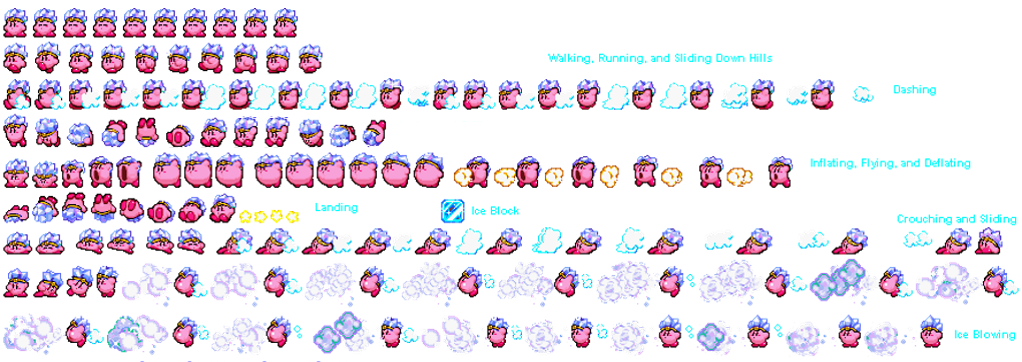
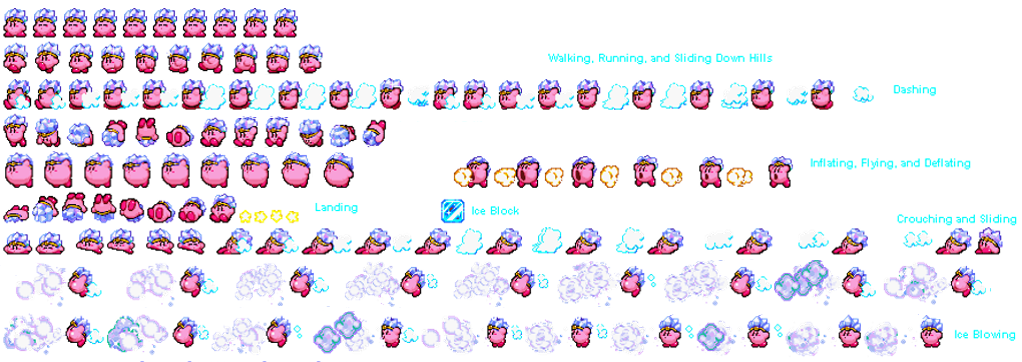
아이스 커비 공중모션 구현

Changed region(s): [[0.0, 0.6989, 1.0, 0.8812], [0.0, 0.4254, 0.455, 0.5166]]

diff --git a/kirby.py b/kirby.py
@@ -7,6 +7,7 @@ import kirby_game_framework
 import kirby_play_mode
 import kirby_world
 from boss_map import BossMap
+import ice_kirby
 
 PIXEL_PER_METER = (10.0 / 0.3)  # 10 pixel 30 cm
 PIXEL_PER_HEIGHT = (74.0 / 2.2)
@@ -26,6 +27,7 @@ FRAMES_PER_ACTION_JUMP = 6
 FRAMES_PER_ACTION_VAC = 5
 FRAMES_PER_ACTION_DAMAGE = 10
 FRAMES_PER_ACTION_ICE_JUMP = 12
+FRAMES_PER_ACTION_ICE_SPACE_JUMP = 9
 FRAMES_PER_ACTION_ICE_IDLE = 10
 
 class Kirby:
@@ -50,6 +52,7 @@ class Kirby:
         self.knockback_speed = 200
         self.knockback_dir = 0
         self.ice_mode = False
+        self.attack_mode = False
 
         self.image = load_image('kirby_animation_sheet2.png')
         self.ice_image = load_image('ice_kirby1.png')
@@ -59,7 +62,10 @@ class Kirby:
     def update(self):
         if self.ice_mode:
             if self.jump:
-                self.frame = self.frame = (self.frame + FRAMES_PER_ACTION_ICE_JUMP * ACTION_PER_TIME * kirby_game_framework.frame_time) % 12
+                if self.space_jump:
+                    self.frame = self.frame = (self.frame + FRAMES_PER_ACTION_ICE_SPACE_JUMP * ACTION_PER_TIME * kirby_game_framework.frame_time) % 9
+                else:
+                    self.frame = self.frame = (self.frame + FRAMES_PER_ACTION_ICE_JUMP * ACTION_PER_TIME * kirby_game_framework.frame_time) % 12
             else:
                 self.frame = (self.frame + FRAMES_PER_ACTION_ICE_IDLE * ACTION_PER_TIME * kirby_game_framework.frame_time) % 10
 
@@ -123,6 +129,7 @@ class Kirby:
                 self.slow_fall = False
             elif event.key == SDLK_e:
                 self.vac_mode = False
+
 
     def move_limit(self):
         if 1024 > self.x > 0:
@@ -260,9 +267,23 @@ class Kirby:
 
             if self.jump:
                 if self.dir2 == -1:
-                    self.ice_image.clip_draw(int(self.frame) * 33, self.action * 36 - 110, 33, 36, self.x, self.y, 50,50)
+                    if self.space_jump:
+                        self.ice_image.clip_draw(int(self.frame) * 40, self.action * 36 - 150, 40, 36, self.x, self.y, 50, 50)
+                    else:
+                        self.ice_image.clip_draw(int(self.frame) * 33, self.action * 36 - 110, 33, 36, self.x, self.y, 50,50)
+                elif self.dir2 == 0:
+                    if self.space_jump:
+                        if self.kirby_face_dir == 1:
+                            self.ice_image.clip_composite_draw(int(self.frame) * 40, self.action * 36 - 150, 40, 36, 0, 'h',self.x, self.y, 50, 50)
+                        elif self.kirby_face_dir == -1:
+                            self.ice_image.clip_draw(int(self.frame) * 40, self.action * 36 - 150, 40, 36, self.x,self.y, 50, 50)
+                    else:
+                        self.ice_image.clip_draw(int(self.frame) * 33, self.action * 36 - 110, 33, 36, self.x, self.y,50, 50)
                 elif self.dir2 == 1:
-                    self.ice_image.clip_composite_draw(int(self.frame) * 33, self.action * 36 - 110, 33, 36, 0, 'h',self.x, self.y, 50, 50)
+                    if self.space_jump:
+                        self.ice_image.clip_composite_draw(int(self.frame) * 40, self.action * 36 - 150, 40, 36, 0, 'h',self.x, self.y, 50, 50)
+                    else:
+                        self.ice_image.clip_composite_draw(int(self.frame) * 33, self.action * 36 - 110, 33, 36, 0, 'h',self.x, self.y, 50, 50)
 
     def get_bb(self):
             return self.x - 27, self.y - 24, self.x + 27, self.y + 24
